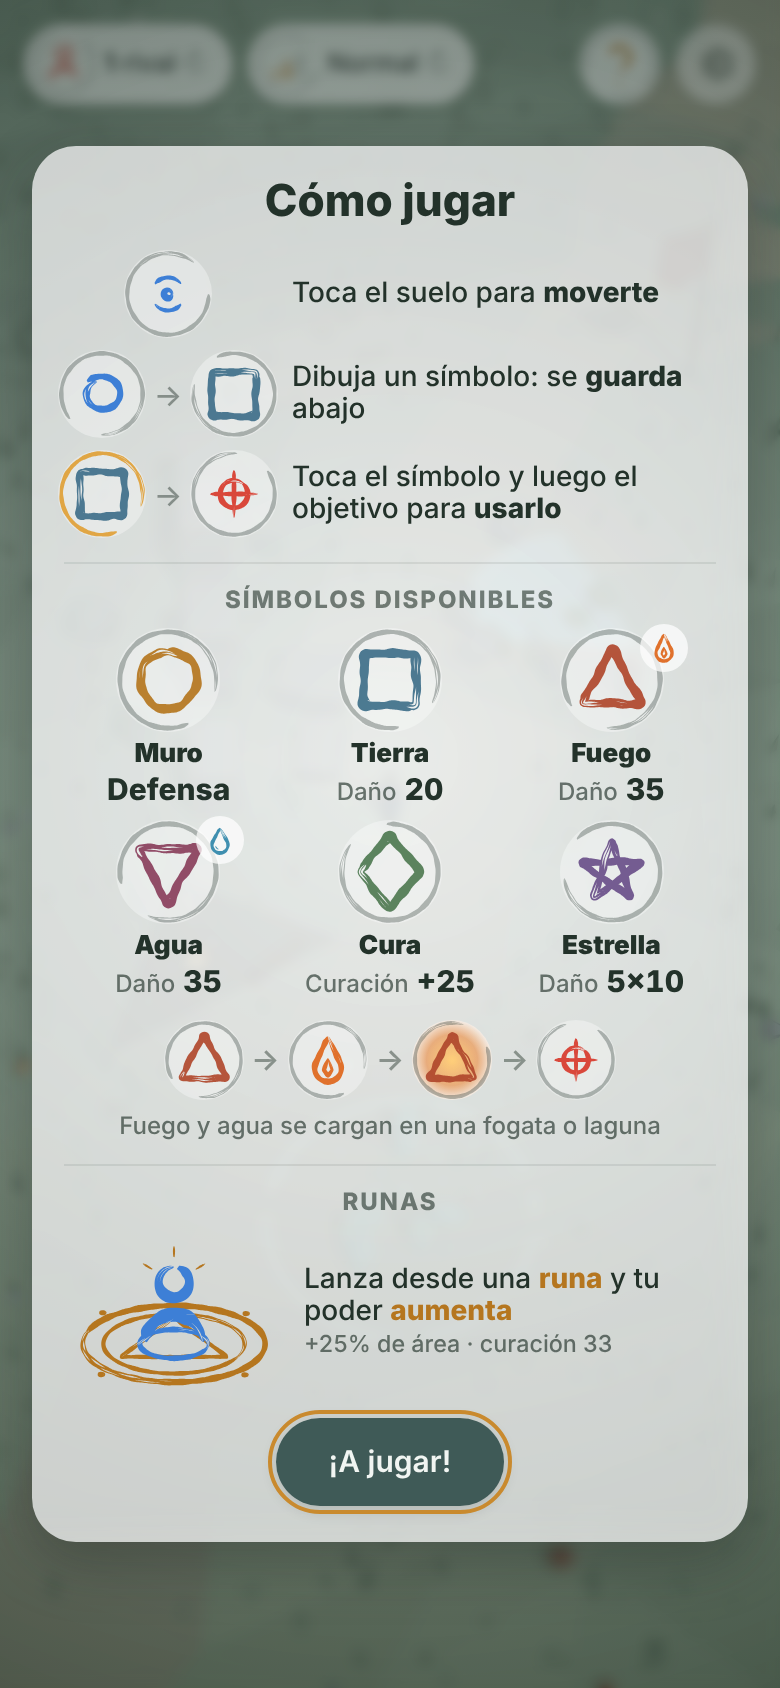
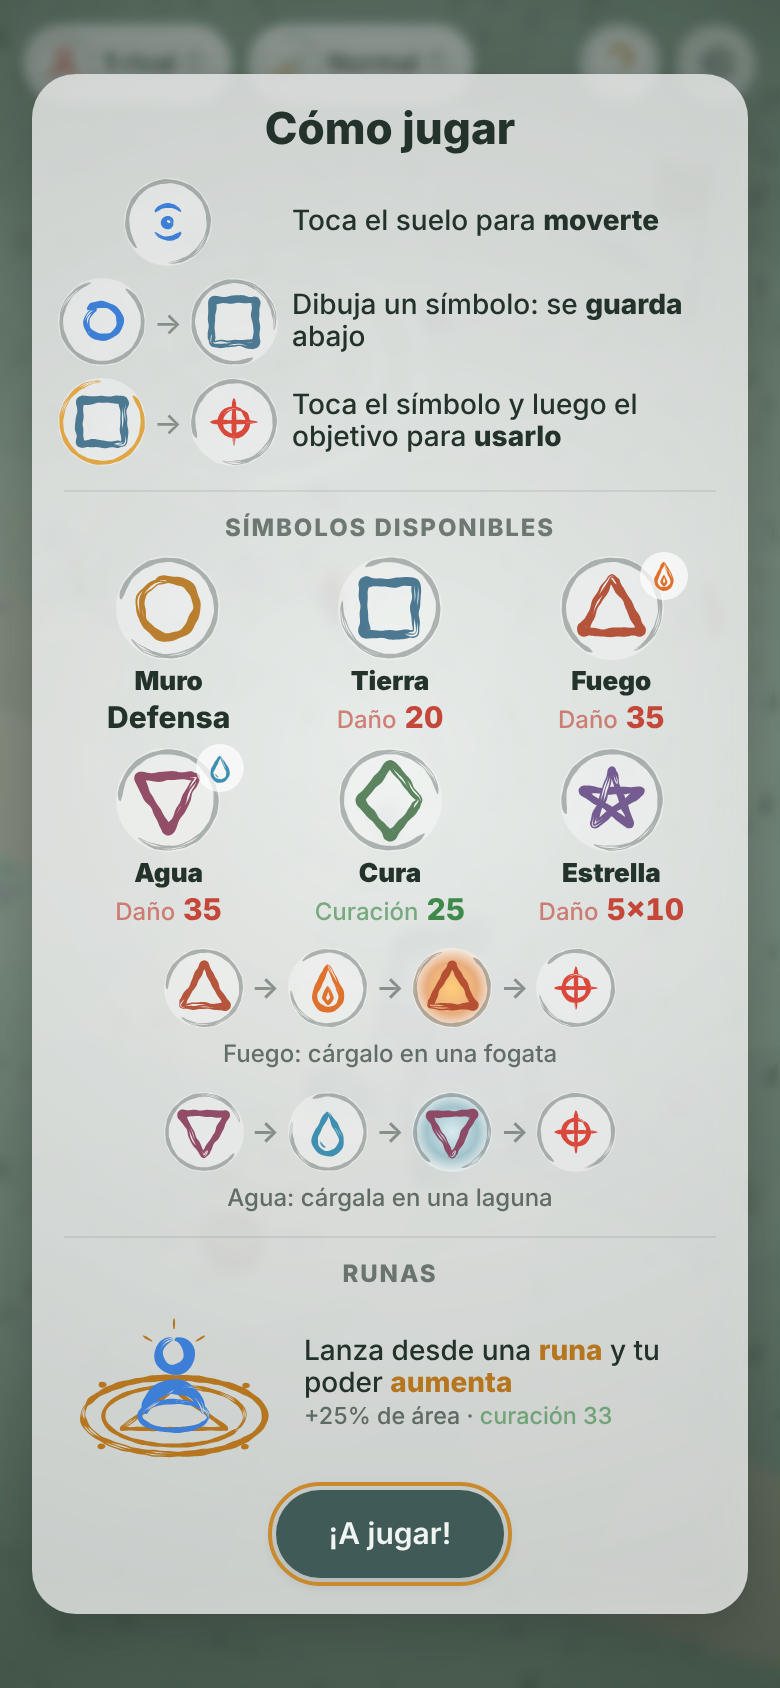
Colour damage red and healing green, add a water charge row
Drop the '+' from the heal value; fire and water each get their own
charge flow with a caption (fogata / laguna).

Claude-Session: https://claude.ai/code/session_0149Mxi5WgeJcYKWAYTr374m

Changed region(s): [[0.0308, 0.0308, 0.9846, 0.9858], [0.3077, 0.7085, 0.3692, 0.7393]]

diff --git a/index.html b/index.html
@@ -113,6 +113,7 @@
       #help .shapes .fig { width: 52px; height: 52px; margin-bottom: 2px; }
       #help .shapes .val { font: 800 15px/1 system-ui, -apple-system, sans-serif; font-variant-numeric: tabular-nums; }
       #help .shapes .val small { font-size: 12px; }
+      #help .val-dmg { color: #c4473a; } #help .val-heal { color: #3f8a4a; }
       #help .note { margin: -6px 0 0; font-weight: 500; font-size: 12px; opacity: .65; }
       #help h3 { padding-top: 12px; border-top: 1px solid var(--hud-border); }
       #help .shapes .src { position: absolute; top: -2px; left: calc(50% + 14px); width: 24px; height: 24px; border-radius: 50%; background: var(--hud-bg); }
@@ -126,8 +127,8 @@
       @media (max-height: 700px) { #help .card { gap: 8px; padding: 12px 14px 14px; } #help h2 { font-size: 19px; } #help .fig, #help .flow .fig { width: 36px; height: 36px; } #help .shapes { padding: 6px 0; gap: 4px; } #help .shapes .fig { width: 42px; height: 42px; } #help .shapes .src { width: 20px; height: 20px; left: calc(50% + 10px); } #help .runes .scene { width: 92px; height: 69px; } #help h3 { padding-top: 8px; } #help .go { height: 40px; } }
       #help .go .cap::after { content: none; }
       #help .go { align-self: center; padding: 0 26px; height: 44px; font-size: 15px; background: #3f5a57; color: #f1f5f2; }
-      @media (prefers-color-scheme: dark) { :root:not([data-theme="light"]) #help-btn .glyph { fill: #ffd27a; } :root:not([data-theme="light"]) #help .fig { color: #ffd27a; background: rgba(255,255,255,.06); } :root:not([data-theme="light"]) #help .hero { fill: #7fb2f0; } :root:not([data-theme="light"]) #help .red { fill: #ff7a6b; } :root:not([data-theme="light"]) #help .fire { fill: #ff9a5c; } :root:not([data-theme="light"]) #help .water { fill: #8cc4dc; } :root:not([data-theme="light"]) #help .runes b, :root:not([data-theme="light"]) #help .runes .scene { color: #ffd27a; } :root:not([data-theme="light"]) #help .go { background: #9fbcb4; color: #14201c; } }
-      :root[data-theme="dark"] #help-btn .glyph { fill: #ffd27a; } :root[data-theme="dark"] #help .fig { color: #ffd27a; background: rgba(255,255,255,.06); } :root[data-theme="dark"] #help .hero { fill: #7fb2f0; } :root[data-theme="dark"] #help .red { fill: #ff7a6b; } :root[data-theme="dark"] #help .fire { fill: #ff9a5c; } :root[data-theme="dark"] #help .water { fill: #8cc4dc; } :root[data-theme="dark"] #help .runes b, :root[data-theme="dark"] #help .runes .scene { color: #ffd27a; } :root[data-theme="dark"] #help .go { background: #9fbcb4; color: #14201c; }
+      @media (prefers-color-scheme: dark) { :root:not([data-theme="light"]) #help-btn .glyph { fill: #ffd27a; } :root:not([data-theme="light"]) #help .fig { color: #ffd27a; background: rgba(255,255,255,.06); } :root:not([data-theme="light"]) #help .hero { fill: #7fb2f0; } :root:not([data-theme="light"]) #help .red { fill: #ff7a6b; } :root:not([data-theme="light"]) #help .fire { fill: #ff9a5c; } :root:not([data-theme="light"]) #help .water { fill: #8cc4dc; } :root:not([data-theme="light"]) #help .val-dmg { color: #ff8a7a; } :root:not([data-theme="light"]) #help .val-heal { color: #8fd69a; } :root:not([data-theme="light"]) #help .runes b, :root:not([data-theme="light"]) #help .runes .scene { color: #ffd27a; } :root:not([data-theme="light"]) #help .go { background: #9fbcb4; color: #14201c; } }
+      :root[data-theme="dark"] #help-btn .glyph { fill: #ffd27a; } :root[data-theme="dark"] #help .fig { color: #ffd27a; background: rgba(255,255,255,.06); } :root[data-theme="dark"] #help .hero { fill: #7fb2f0; } :root[data-theme="dark"] #help .red { fill: #ff7a6b; } :root[data-theme="dark"] #help .fire { fill: #ff9a5c; } :root[data-theme="dark"] #help .water { fill: #8cc4dc; } :root[data-theme="dark"] #help .val-dmg { color: #ff8a7a; } :root[data-theme="dark"] #help .val-heal { color: #8fd69a; } :root[data-theme="dark"] #help .runes b, :root[data-theme="dark"] #help .runes .scene { color: #ffd27a; } :root[data-theme="dark"] #help .go { background: #9fbcb4; color: #14201c; }
       #fps { position: fixed; top: calc(max(12px, env(safe-area-inset-top)) + 50px); left: max(12px, env(safe-area-inset-left)); z-index: 3; pointer-events: none; padding: 6px 12px; border-radius: 999px; border: 1px solid var(--hud-border); background: var(--hud-bg); color: var(--hud-fg); backdrop-filter: blur(6px); -webkit-backdrop-filter: blur(6px); font: 600 13px/1.2 system-ui, -apple-system, sans-serif; font-variant-numeric: tabular-nums; }
       #fps[hidden] { display: none; }
       @media (prefers-color-scheme: dark) { :root:not([data-theme="light"]) #dev-panel .dev-primary { background: #9fbcb4; color: #14201c; border-color: #9fbcb4; } }

diff --git a/src/help.ts b/src/help.ts
@@ -117,7 +117,7 @@ const SHAPES: Array<{ kind: ShapeKind; name: string; label: string; value: strin
   { kind: 'square', name: 'Tierra', label: 'Daño', value: '20' },
   { kind: 'triangle', name: 'Fuego', label: 'Daño', value: '35', source: 'fire' },
   { kind: 'triangleDown', name: 'Agua', label: 'Daño', value: '35', source: 'water' },
-  { kind: 'rhombus', name: 'Cura', label: 'Curación', value: '+25' },
+  { kind: 'rhombus', name: 'Cura', label: 'Curación', value: '25' },
   { kind: 'pentagram', name: 'Estrella', label: 'Daño', value: '5×10' },
 ];
 
@@ -128,7 +128,7 @@ function content() {
   const rand = random();
   const shapes = SHAPES.map(
     (s) =>
-      `<li>${fig(s.kind, shapeIcon(s.kind))}<b>${s.name}</b><span class="val">${s.label ? `<small>${s.label}</small> ` : ''}${s.value}</span>` +
+      `<li>${fig(s.kind, shapeIcon(s.kind))}<b>${s.name}</b><span class="val${s.label === 'Daño' ? ' val-dmg' : s.label === 'Curación' ? ' val-heal' : ''}">${s.label ? `<small>${s.label}</small> ` : ''}${s.value}</span>` +
       (s.source ? `<span class="src">${s.source === 'fire' ? flameIcon(rand) : waterIcon(rand)}</span>` : '') +
       '</li>',
   ).join('');
@@ -141,13 +141,17 @@ function content() {
     '</ol>' +
     '<h3>Símbolos disponibles</h3>' +
     `<ul class="shapes">${shapes}</ul>` +
-    '<div class="flow" aria-label="Fuego y agua: toca el triángulo, luego la fogata o la laguna; vuelve a tocarlo y lanza">' +
+    '<div class="flow" aria-label="Fuego: toca el triángulo, luego la fogata; vuelve a tocarlo y lanza">' +
     `${fig('triangle', shapeIcon('triangle'))}${arrow}${fig('', flameIcon(rand))}${arrow}` +
     `${fig('triangle charged', shapeIcon('triangle'))}${arrow}${fig('', targetIcon(rand))}</div>` +
-    '<p class="note">Fuego y agua se cargan en una fogata o laguna</p>' +
+    '<p class="note">Fuego: cárgalo en una fogata</p>' +
+    '<div class="flow" aria-label="Agua: toca el triángulo invertido, luego la laguna; vuelve a tocarlo y lanza">' +
+    `${fig('triangleDown', shapeIcon('triangleDown'))}${arrow}${fig('', waterIcon(rand))}${arrow}` +
+    `${fig('triangleDown charged', shapeIcon('triangleDown'))}${arrow}${fig('', targetIcon(rand))}</div>` +
+    '<p class="note">Agua: cárgala en una laguna</p>' +
     '<h3>Runas</h3>' +
     `<div class="runes"><span class="scene">${runesScene(rand)}</span>` +
-    '<span>Lanza desde una <b>runa</b> y tu poder <b>aumenta</b><br><small>+25% de área · curación 33</small></span></div>' +
+    '<span>Lanza desde una <b>runa</b> y tu poder <b>aumenta</b><br><small>+25% de área · <span class="val-heal">curación 33</span></small></span></div>' +
     '<button type="button" class="match-btn go"><span class="cap">¡A jugar!</span></button></div>'
   );
 }
